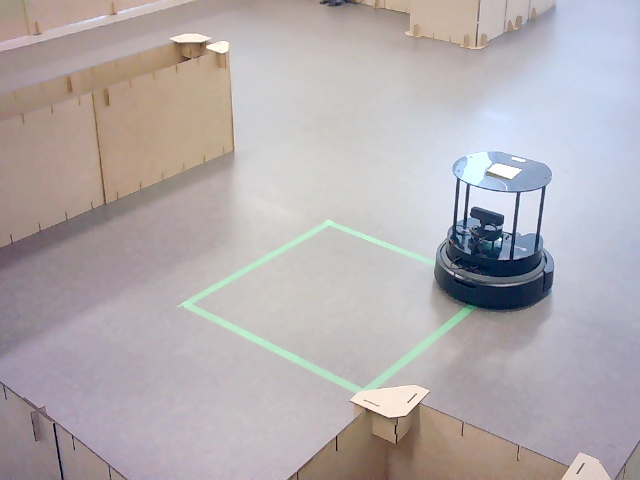
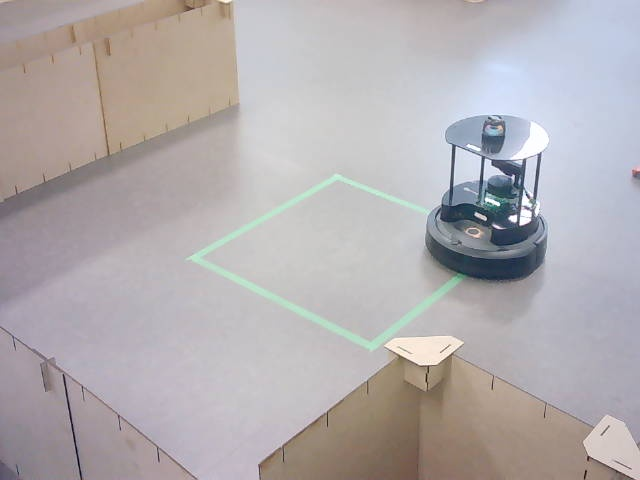
cam1 호모그래피 재측량, 로봇별 블루투스 스피커 지정 추가
cam1 카메라가 이전 측량 이후 두 차례 움직였는데 homography_cam1.yaml은
옛 값 그대로였고 재측량도 2점에서 중단돼 있었다. 그 상태로는 웹캠1이
쓰러진 사람을 찾아도 map 좌표가 어긋나 로봇이 다른 지점으로 출동한다.

- cam1: 로봇2 AMCL 기준 5점 재측량. 잔차 평균 3.1cm, 최대 6.7cm.
  측량에 쓰지 않은 위치에서 독립 검증 5.5cm (AMCL 자체 표준편차 15cm 이내).
  중단된 이전 데이터는 tools/survey/cam1_incomplete_20260809/에 보존.
- cam2: 잔차 1.5cm, 독립 검증 7.6cm로 정상 확인. 설정 변경 없음.
- 오디오: 로봇마다 블루투스 스피커를 따로 붙일 수 있게 audio_devices를
  launch 인자로 연결. 장치 수가 로봇 수와 다르면 시작 시점에 막는다.
  기본값은 비워 두어 스피커가 없는 환경은 OS 기본 출력을 그대로 쓴다.
  aliases.sh의 central은 AED_AUDIO_DEVICES 환경변수를 읽는다.

diff --git a/src/helper_mission/launch/helper_mission.launch.py b/src/helper_mission/launch/helper_mission.launch.py
@@ -1,5 +1,6 @@
 """중앙 coordinator와 로봇별 현장 회전 탐색 서버를 실행한다."""
 
+from emergency_alert.robot_ids import parse_audio_devices
 from launch import LaunchDescription
 from launch.actions import DeclareLaunchArgument, OpaqueFunction
 from launch.substitutions import LaunchConfiguration
@@ -29,11 +30,15 @@ def _launch_nodes(context):
         ),
         "audio_backend": LaunchConfiguration("audio_backend").perform(context),
         "audio_player": LaunchConfiguration("audio_player").perform(context),
-        "audio_device": LaunchConfiguration("audio_device").perform(context),
         "handoff_wait_seconds": float(
             LaunchConfiguration("handoff_wait_seconds").perform(context)
         ),
     }
+    # audio_devices가 비면 모든 로봇이 기존 audio_device 하나를 그대로 쓴다.
+    shared_audio_device = LaunchConfiguration("audio_device").perform(context)
+    audio_devices = parse_audio_devices(
+        LaunchConfiguration("audio_devices").perform(context), robot_ids
+    )
     nodes = [
         Node(
             package="helper_mission",
@@ -50,7 +55,15 @@ def _launch_nodes(context):
             namespace=robot_id,
             name="helper_mission_controller",
             output="screen",
-            parameters=[{"robot_id": robot_id}, controller_parameters],
+            parameters=[
+                controller_parameters,
+                {
+                    "robot_id": robot_id,
+                    "audio_device": (
+                        audio_devices[robot_id] or shared_audio_device
+                    ),
+                },
+            ],
         )
         for robot_id in robot_ids
     )
@@ -66,6 +79,14 @@ def generate_launch_description():
             DeclareLaunchArgument("audio_backend", default_value="system"),
             DeclareLaunchArgument("audio_player", default_value="auto"),
             DeclareLaunchArgument("audio_device", default_value=""),
+            DeclareLaunchArgument(
+                "audio_devices",
+                default_value="",
+                description=(
+                    "Comma-separated output device per robot in robot_ids "
+                    "order. Overrides audio_device when set."
+                ),
+            ),
             DeclareLaunchArgument("handoff_wait_seconds", default_value="5.0"),
             # 0은 구조 인력이 감지될 때까지 무제한으로 회전·호출한다.
             DeclareLaunchArgument("helper_wait_timeout", default_value="0.0"),

diff --git a/src/emergency_alert/launch/multi_robot_status_alert.launch.py b/src/emergency_alert/launch/multi_robot_status_alert.launch.py
@@ -1,6 +1,6 @@
 """Nav2 제어 없이 MissionStatus 기반 경보 노드만 로봇별로 실행한다."""
 
-from emergency_alert.robot_ids import parse_robot_ids
+from emergency_alert.robot_ids import parse_audio_devices, parse_robot_ids
 from launch import LaunchDescription
 from launch.actions import DeclareLaunchArgument, OpaqueFunction
 from launch.substitutions import LaunchConfiguration
@@ -12,6 +12,13 @@ def _create_robot_nodes(context):
     robot_ids = parse_robot_ids(
         LaunchConfiguration("robot_ids").perform(context)
     )
+    audio_devices = parse_audio_devices(
+        LaunchConfiguration("audio_devices").perform(context), robot_ids
+    )
+    shared_audio = {
+        "audio_backend": LaunchConfiguration("audio_backend").perform(context),
+        "audio_player": LaunchConfiguration("audio_player").perform(context),
+    }
     return [
         Node(
             package="emergency_alert",
@@ -19,7 +26,13 @@ def _create_robot_nodes(context):
             namespace=robot_id,
             name="mission_status_alert",
             output="screen",
-            parameters=[{"robot_id": robot_id}],
+            parameters=[
+                shared_audio,
+                {
+                    "robot_id": robot_id,
+                    "audio_device": audio_devices[robot_id],
+                },
+            ],
         )
         for robot_id in robot_ids
     ]
@@ -33,6 +46,16 @@ def generate_launch_description():
                 "robot_ids",
                 default_value="robot1,robot2",
                 description="Comma-separated robot IDs without duplicates",
+            ),
+            DeclareLaunchArgument("audio_backend", default_value="system"),
+            DeclareLaunchArgument("audio_player", default_value="auto"),
+            DeclareLaunchArgument(
+                "audio_devices",
+                default_value="",
+                description=(
+                    "Comma-separated output device per robot in robot_ids "
+                    "order. Empty uses the OS default output for all robots."
+                ),
             ),
             OpaqueFunction(function=_create_robot_nodes),
         ]

diff --git a/src/aed_bringup/launch/server_runtime.launch.py b/src/aed_bringup/launch/server_runtime.launch.py
@@ -72,7 +72,10 @@ def generate_launch_description() -> LaunchDescription:
         "emergency_alert",
         "multi_robot_status_alert.launch.py",
         condition=IfCondition(start_alert),
-        arguments={"robot_ids": "robot1,robot2"},
+        arguments={
+            "robot_ids": "robot1,robot2",
+            "audio_devices": LaunchConfiguration("audio_devices"),
+        },
     )
     hmi = _include(
         "aed_hmi",
@@ -111,6 +114,7 @@ def generate_launch_description() -> LaunchDescription:
                 "robot_vision_target"
             ),
             "start_helper_mission": start_helper_mission,
+            "audio_devices": LaunchConfiguration("audio_devices"),
         },
     )
 
@@ -148,6 +152,15 @@ def generate_launch_description() -> LaunchDescription:
                 "dual_dispatch_enabled",
                 default_value="true",
                 choices=("true", "false"),
+            ),
+            DeclareLaunchArgument(
+                "audio_devices",
+                default_value="",
+                description=(
+                    "로봇별 오디오 출력 장치를 robot1,robot2 순서로 나열한다. "
+                    "블루투스 스피커를 로봇마다 따로 붙일 때 사용하며, "
+                    "비우면 두 로봇 모두 OS 기본 출력으로 재생한다."
+                ),
             ),
             DeclareLaunchArgument(
                 "start_alert", default_value="true",

diff --git a/src/emergency_alert/emergency_alert/robot_ids.py b/src/emergency_alert/emergency_alert/robot_ids.py
@@ -44,3 +44,28 @@ def parse_robot_ids(raw_robot_ids: str):
             "robot_ids contains duplicates: " + ", ".join(duplicates)
         )
     return robot_ids
+
+
+def parse_audio_devices(raw_audio_devices, robot_ids):
+    """
+    쉼표로 구분한 오디오 출력 장치를 ``robot_ids`` 순서대로 매핑한다.
+
+    로봇마다 블루투스 스피커를 따로 붙이면 로봇별로 다른 sink 이름을 줘야
+    한다. 빈 문자열이면 모든 로봇이 OS 기본 출력을 사용한다. 항목 수가
+    로봇 수와 다르면 어느 로봇이 어느 스피커를 쓰는지 확정할 수 없으므로
+    조용히 잘라내지 않고 시작 시점에 ``ValueError``로 처리한다.
+    """
+    if raw_audio_devices is None:
+        raw_audio_devices = ""
+    if not isinstance(raw_audio_devices, str):
+        raise ValueError("audio_devices must be a comma-separated string")
+    if not raw_audio_devices.strip():
+        return {robot_id: "" for robot_id in robot_ids}
+
+    devices = [item.strip() for item in raw_audio_devices.split(",")]
+    if len(devices) != len(robot_ids):
+        raise ValueError(
+            "audio_devices must list exactly one device per robot: "
+            f"{len(robot_ids)} robots but {len(devices)} devices"
+        )
+    return dict(zip(robot_ids, devices))

diff --git a/src/multi_robot_emergency/launch/central_dispatch.launch.py b/src/multi_robot_emergency/launch/central_dispatch.launch.py
@@ -116,6 +116,14 @@ def generate_launch_description() -> LaunchDescription:
             ),
             DeclareLaunchArgument("planner_id", default_value="GridBased"),
             DeclareLaunchArgument(
+                "audio_devices",
+                default_value="",
+                description=(
+                    "helper_mission이 로봇별로 쓸 오디오 출력 장치. "
+                    "robot1,robot2 순서의 쉼표 목록이며 비우면 OS 기본 출력."
+                ),
+            ),
+            DeclareLaunchArgument(
                 "start_helper_mission",
                 default_value="true",
                 choices=["true", "false"],
@@ -327,6 +335,7 @@ def generate_launch_description() -> LaunchDescription:
                 ),
                 launch_arguments={
                     "robot_ids": "robot1,robot2",
+                    "audio_devices": LaunchConfiguration("audio_devices"),
                 }.items(),
             ),
             IncludeLaunchDescription(
